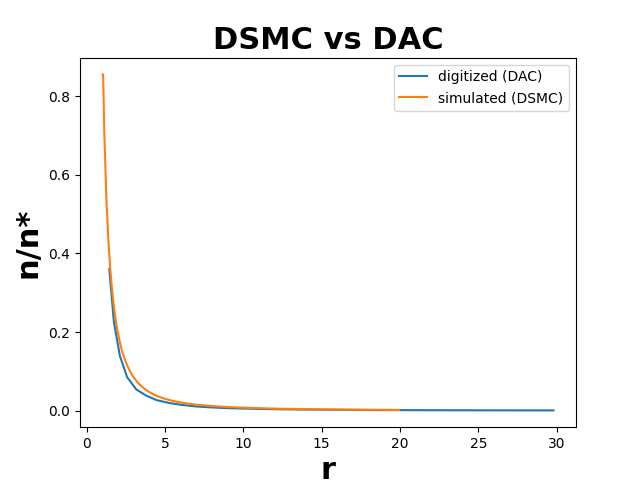
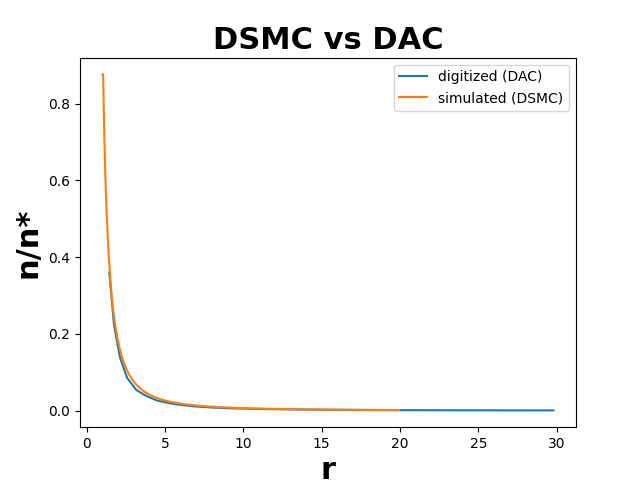
update case settings to match DAC results

diff --git a/cases/1d/graphCaseValidation.py b/cases/1d/graphCaseValidation.py
@@ -33,7 +33,7 @@ digi_T = pd.read_csv(
     )
 
 sim = pd.read_csv(
-    curr_dir_path + '/postProcessing/sampleDict/0.300012/horizontalLine_Ttra_Ar_rhoN_Ar.csv'
+    curr_dir_path + '/postProcessing/sampleDict/0.36/horizontalLine_Ttra_Ar_rhoN_Ar.csv'
     )
 
 print(sim['Ttra_Ar'])
@@ -54,7 +54,7 @@ plt.savefig(curr_dir_path + '/digitized_vs_analytical_n.png')
 plt.close()
 
 plt.title('DSMC vs DAC', fontdict = font_axis_publish)
-plt.ylabel('T/T*', fontdict = font_axis_publish)
+plt.ylabel('T', fontdict = font_axis_publish)
 plt.xlabel('r', fontdict = font_axis_publish)
 
 plt.plot(digi_T['r'], digi_T['T_Tstar'], label = 'digitized (DAC)')
